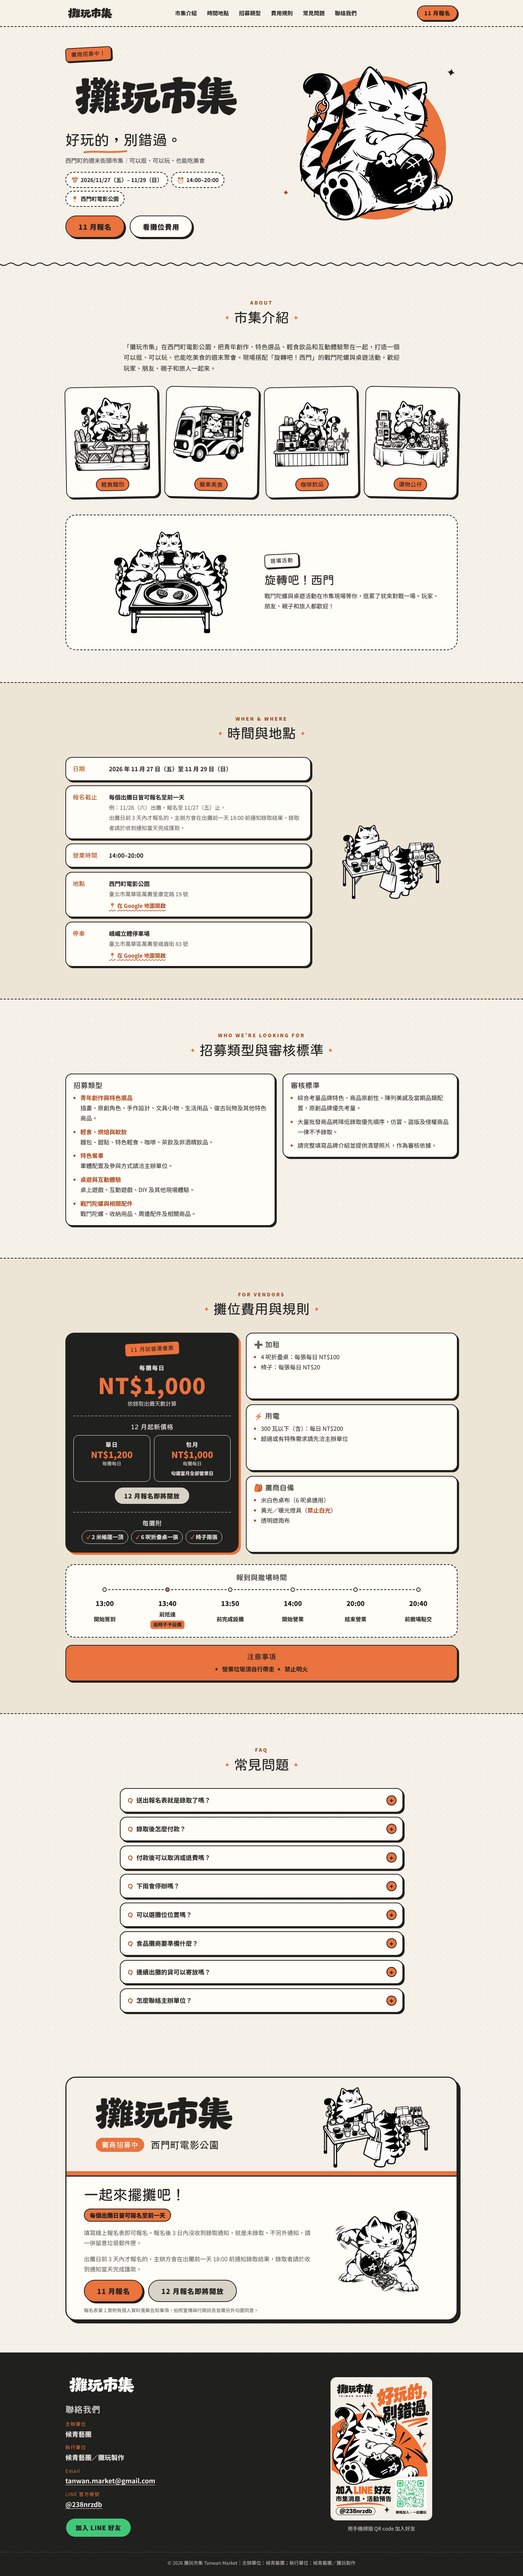
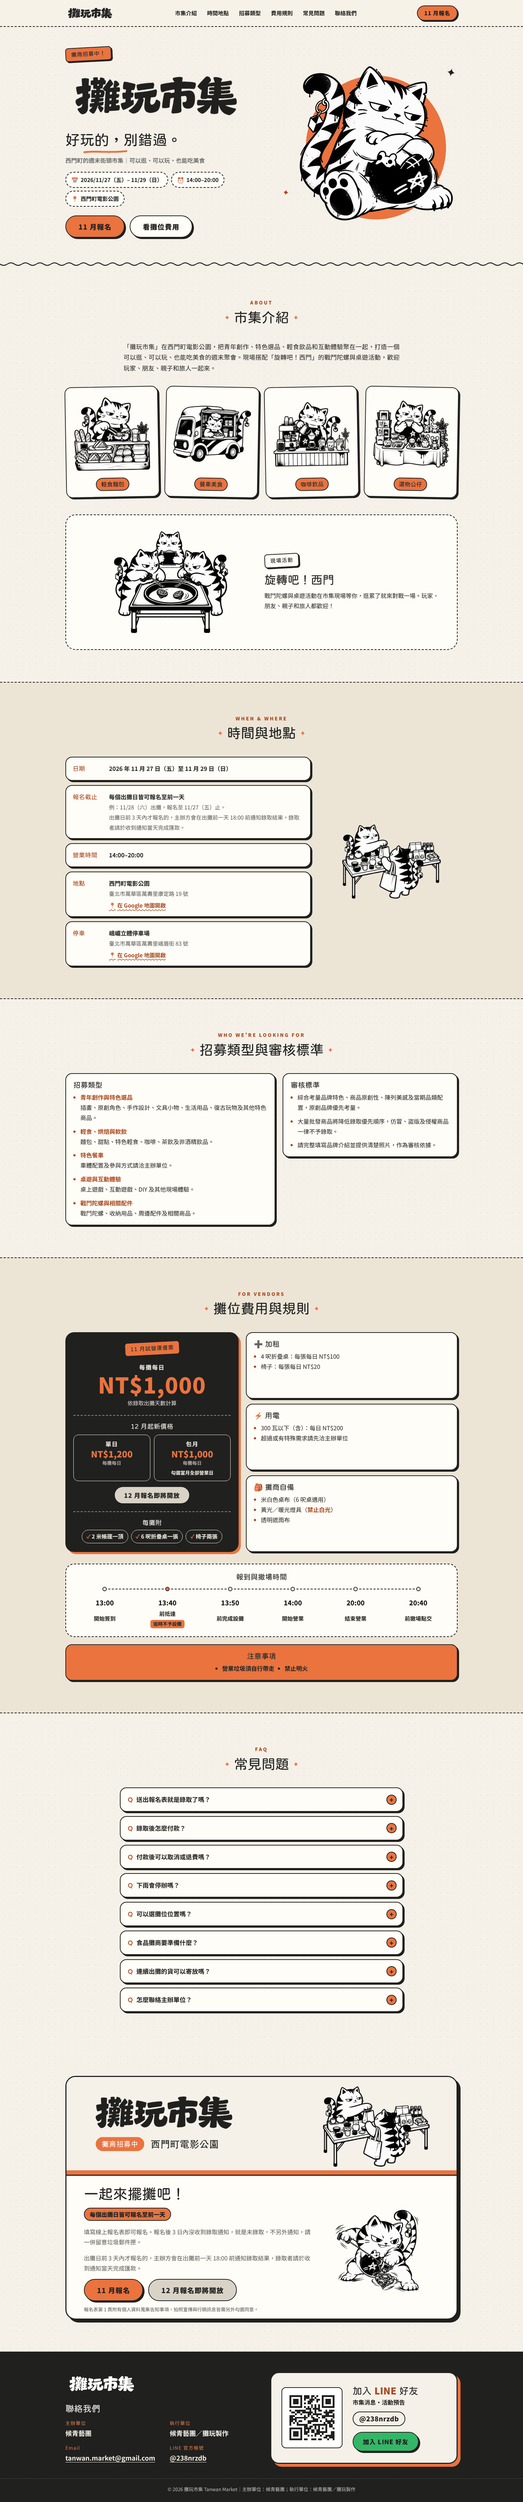
Replace footer LINE poster with an HTML LINE card
- New HTML/CSS card: QR code on the left (desktop only), 加入 LINE 好友,
  市集消息・活動預告, @238nrzdb and the green LINE button on the right.
- Regenerate the QR code as assets/line-qr-code.svg; it decodes to
  https://lin.ee/N8RTbE3.
- Desktop: contact list in two columns so the card lines up with it.
- Mobile: hide the QR code, keep the text and button.
- Keep assets/line-qr.png in the repo (no longer used on the page).
- Update README and screenshots, add footer screenshots.

Claude-Session: https://claude.ai/code/session_012dQHuckgmktwtxDEBvdD1o

diff --git a/styles.css b/styles.css
@@ -718,13 +718,40 @@ a { color: inherit; }
   text-underline-offset: 4px;
   word-break: break-all;
 }
-.footer-qr img {
-  width: min(70%, 280px);
-  margin: 0 auto;
-  border: 3px solid var(--paper);
-  border-radius: 16px;
+.line-card {
+  display: flex;
+  align-items: center;
+  justify-content: center;
+  gap: 28px;
+  padding: 26px 22px;
+  background: var(--paper);
+  color: var(--ink);
+  border: 3px solid var(--ink);
+  border-radius: 24px;
+  box-shadow: 8px 8px 0 var(--orange);
 }
-.qr-hint { margin: 10px 0 0; text-align: center; font-size: .875rem; opacity: .85; }
+.line-card-qr { display: none; }
+.line-card-body { text-align: center; }
+.line-card-body p { margin: 0; }
+.line-card-title {
+  font-family: var(--font-fun);
+  font-size: 1.625rem;
+  line-height: 1.3;
+}
+.line-card-title span { color: var(--orange-ink); font-family: var(--font-body); font-weight: 900; }
+.line-card-sub { margin-top: 4px; font-weight: 700; }
+.line-card-id {
+  display: inline-block;
+  margin: 12px 0 16px !important;
+  padding: 2px 16px;
+  border: 2px solid var(--ink);
+  border-radius: 999px;
+  font-weight: 900;
+  font-size: 1.125rem;
+  letter-spacing: .03em;
+}
+.line-card .btn-line { display: flex; width: fit-content; margin: 0 auto; white-space: nowrap; }
+.line-card-title { white-space: nowrap; }
 .copyright {
   margin: 40px 0 0;
   padding-top: 18px;
@@ -796,9 +823,21 @@ a { color: inherit; }
   .signup-text { text-align: left; }
   .signup-actions { justify-content: flex-start; }
 
-  .footer-inner { grid-template-columns: 1.2fr .8fr; }
+  .footer-inner { grid-template-columns: 1fr 1fr; align-items: stretch; gap: 48px; }
   .footer-info { text-align: left; }
   .footer-logo { margin-left: 0; }
+  .contact-list { grid-template-columns: repeat(2, max-content); gap: 14px 40px; margin-bottom: 0; }
+  .line-card { justify-content: flex-start; gap: clamp(18px, 2vw, 28px); padding: 24px clamp(20px, 2vw, 28px); }
+  .line-card-qr {
+    display: block;
+    flex: none;
+    width: clamp(140px, 12vw, 168px);
+    height: clamp(140px, 12vw, 168px);
+    border: 2px solid var(--ink);
+    border-radius: 12px;
+  }
+  .line-card-body { text-align: left; }
+  .line-card .btn-line { margin: 0; }
 }
 
 @media (prefers-reduced-motion: reduce) {

diff --git a/index.html b/index.html
@@ -390,11 +390,16 @@
             <a href="https://line.me/R/ti/p/@238nrzdb" target="_blank" rel="noopener">@238nrzdb<span class="sr-only">（另開新分頁）</span></a>
           </li>
         </ul>
-        <a class="btn btn-line" href="https://line.me/R/ti/p/@238nrzdb" target="_blank" rel="noopener">加入 LINE 好友<span class="sr-only">（另開新分頁）</span></a>
       </div>
-      <div class="footer-qr">
-        <img src="assets/line-qr.png" alt="攤玩市集 LINE 官方帳號加好友 QR code，ID：@238nrzdb" width="1000" height="1415" loading="lazy">
-        <p class="qr-hint">用手機掃描 QR code 加入好友</p>
+      <!-- LINE 加好友卡片：QR code 內容為 https://lin.ee/N8RTbE3（assets/line-qr-code.svg）；手機版不顯示 QR code -->
+      <div class="line-card">
+        <img class="line-card-qr" src="assets/line-qr-code.svg" alt="攤玩市集 LINE 官方帳號加好友 QR code，ID：@238nrzdb" width="168" height="168" loading="lazy">
+        <div class="line-card-body">
+          <p class="line-card-title">加入 <span>LINE</span> 好友</p>
+          <p class="line-card-sub">市集消息・活動預告</p>
+          <p class="line-card-id">@238nrzdb</p>
+          <a class="btn btn-line" href="https://line.me/R/ti/p/@238nrzdb" target="_blank" rel="noopener">加入 LINE 好友<span class="sr-only">（另開新分頁）</span></a>
+        </div>
       </div>
     </div>
     <p class="copyright">© 2026 攤玩市集 Tanwan Market｜主辦單位：候青藝團；執行單位：候青藝團／攤玩製作</p>

diff --git a/README.md b/README.md
@@ -17,7 +17,8 @@ tanwan-market/
 │   ├── vendor-*.png    # 攤商插畫（市集介紹）
 │   ├── scene-*.png     # 活動插畫
 │   ├── banner.png      # 橫幅（報名區；無日期）
-│   ├── line-qr.png     # LINE 加好友海報（頁尾）
+│   ├── line-qr.png     # LINE 加好友直式海報（網頁上不使用，保留給 LINE@ 與印刷用）
+│   ├── line-qr-code.svg # 頁尾 LINE 卡片的 QR code（內容：https://lin.ee/N8RTbE3）
 │   ├── og-image.png    # 分享到 LINE / FB 時顯示的圖（1200×630，無日期）
 │   └── favicon.png     # 瀏覽器分頁小圖示
 └── docs/screenshots/   # 手機與桌機預覽截圖
